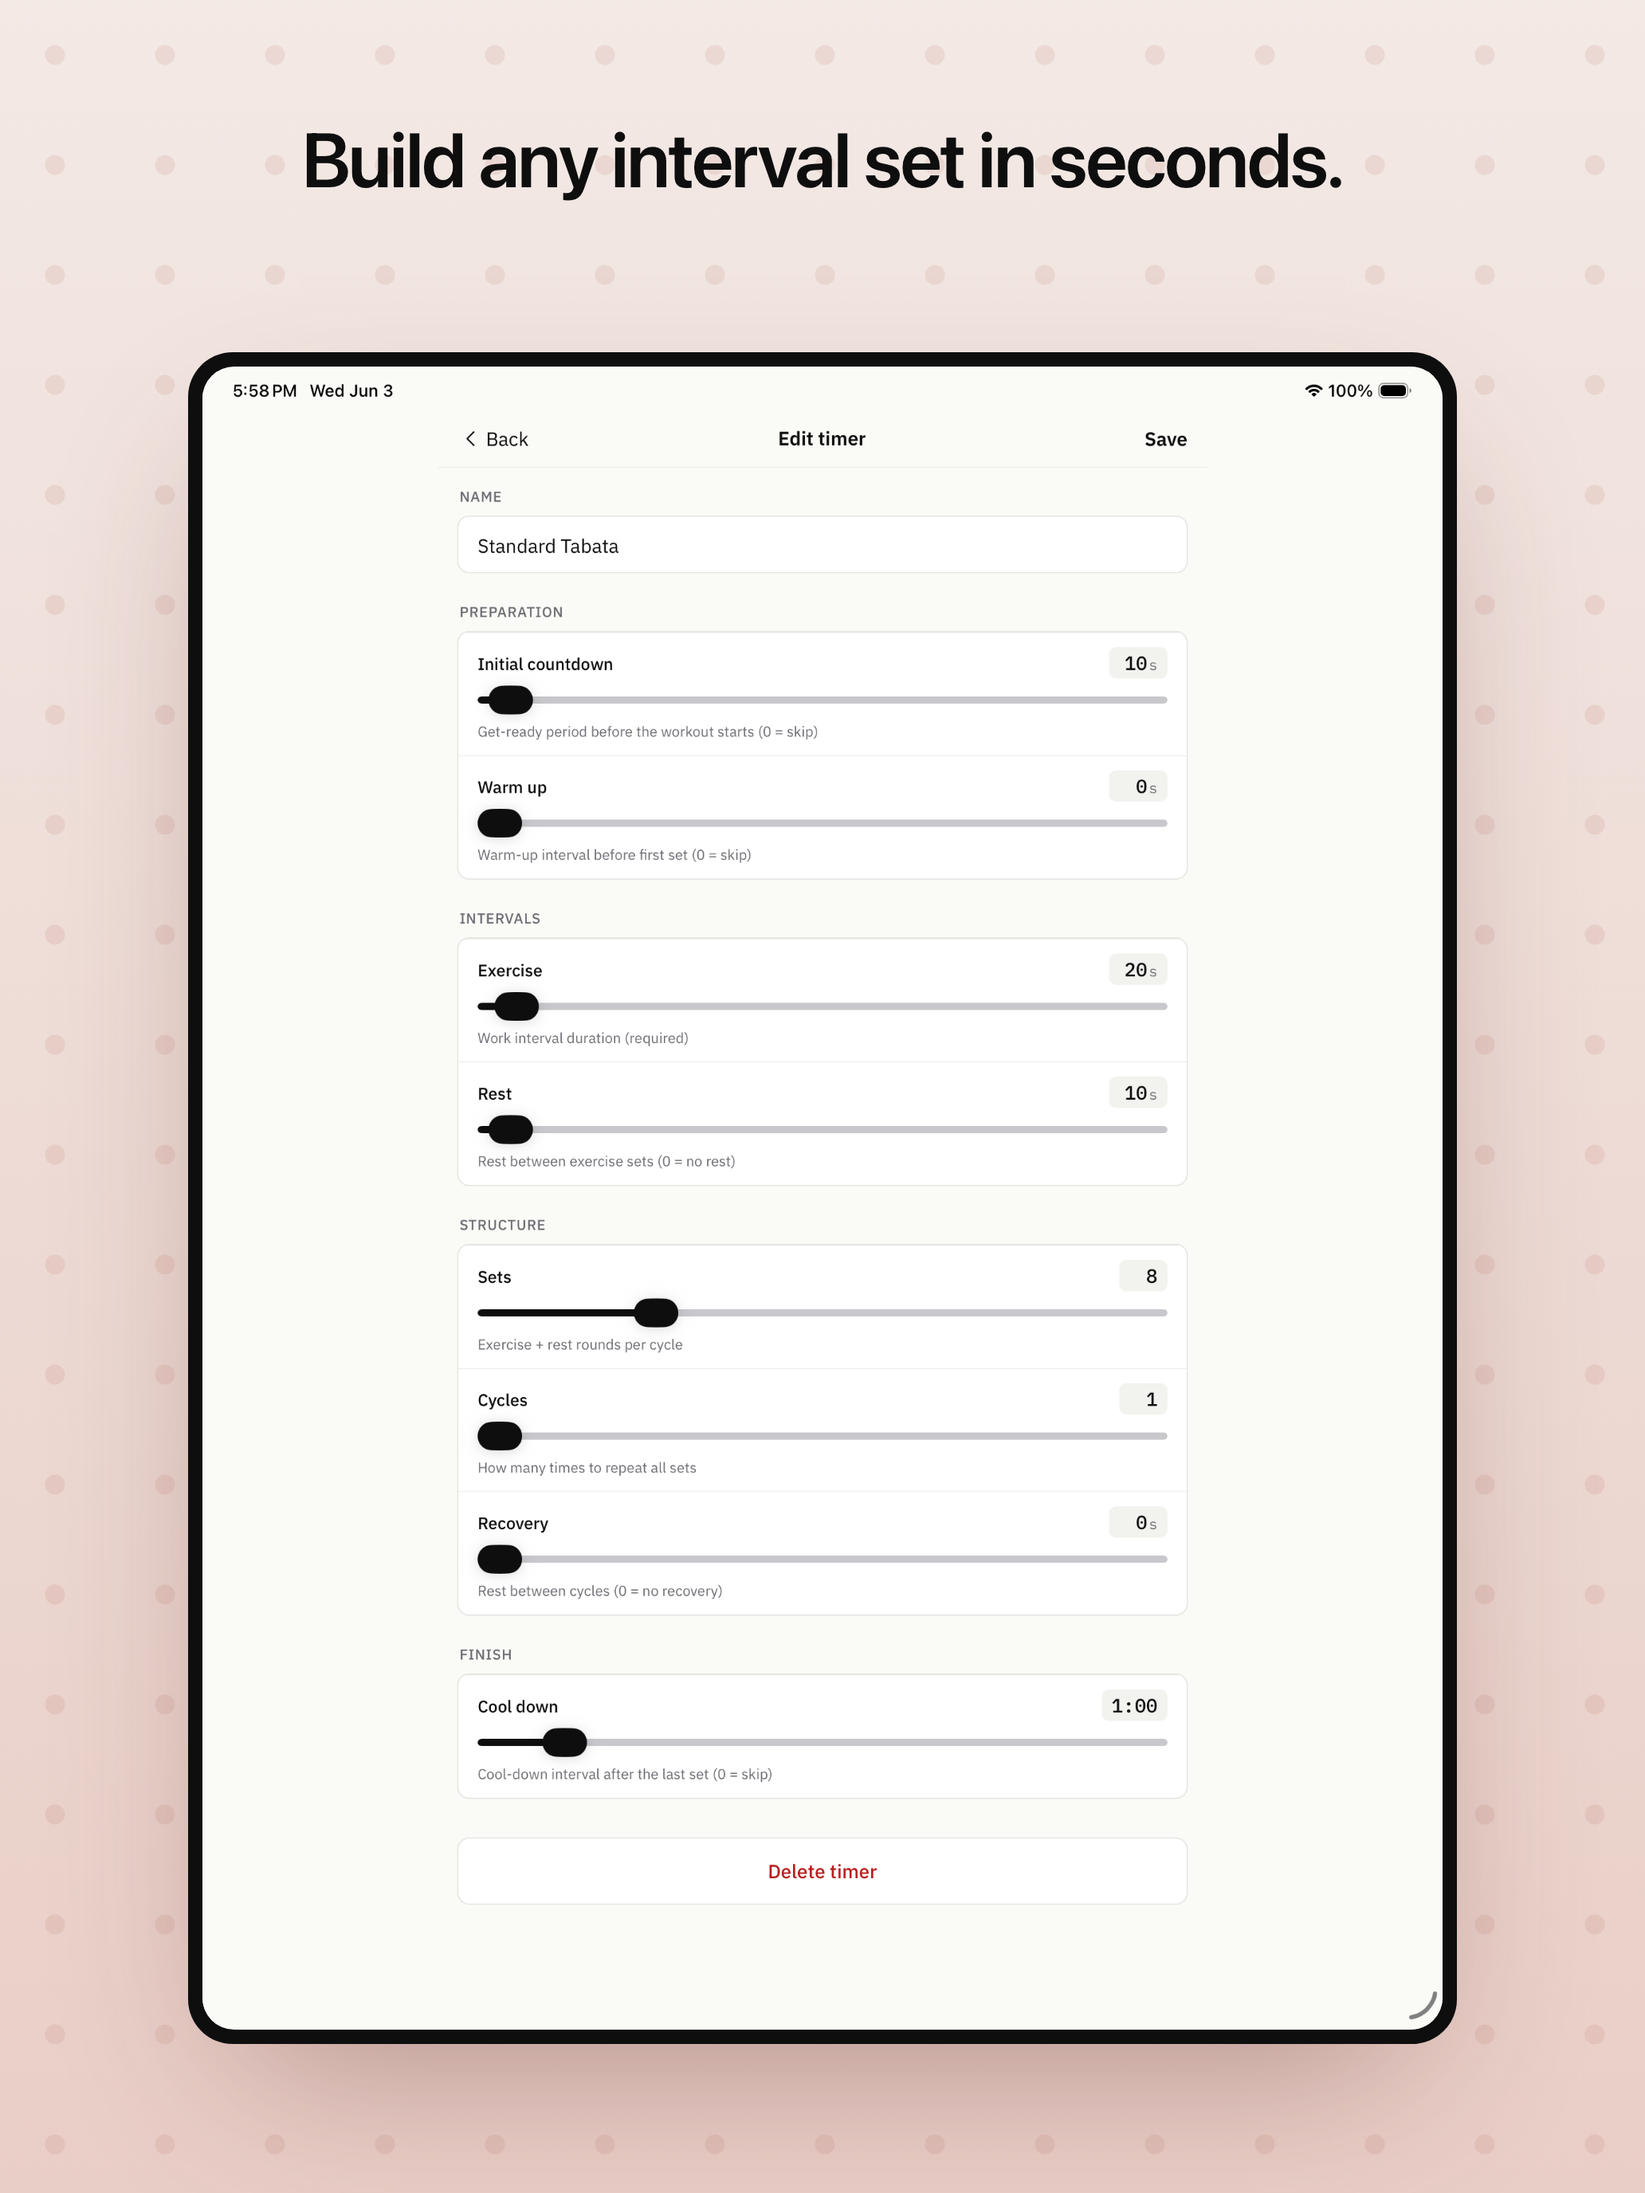
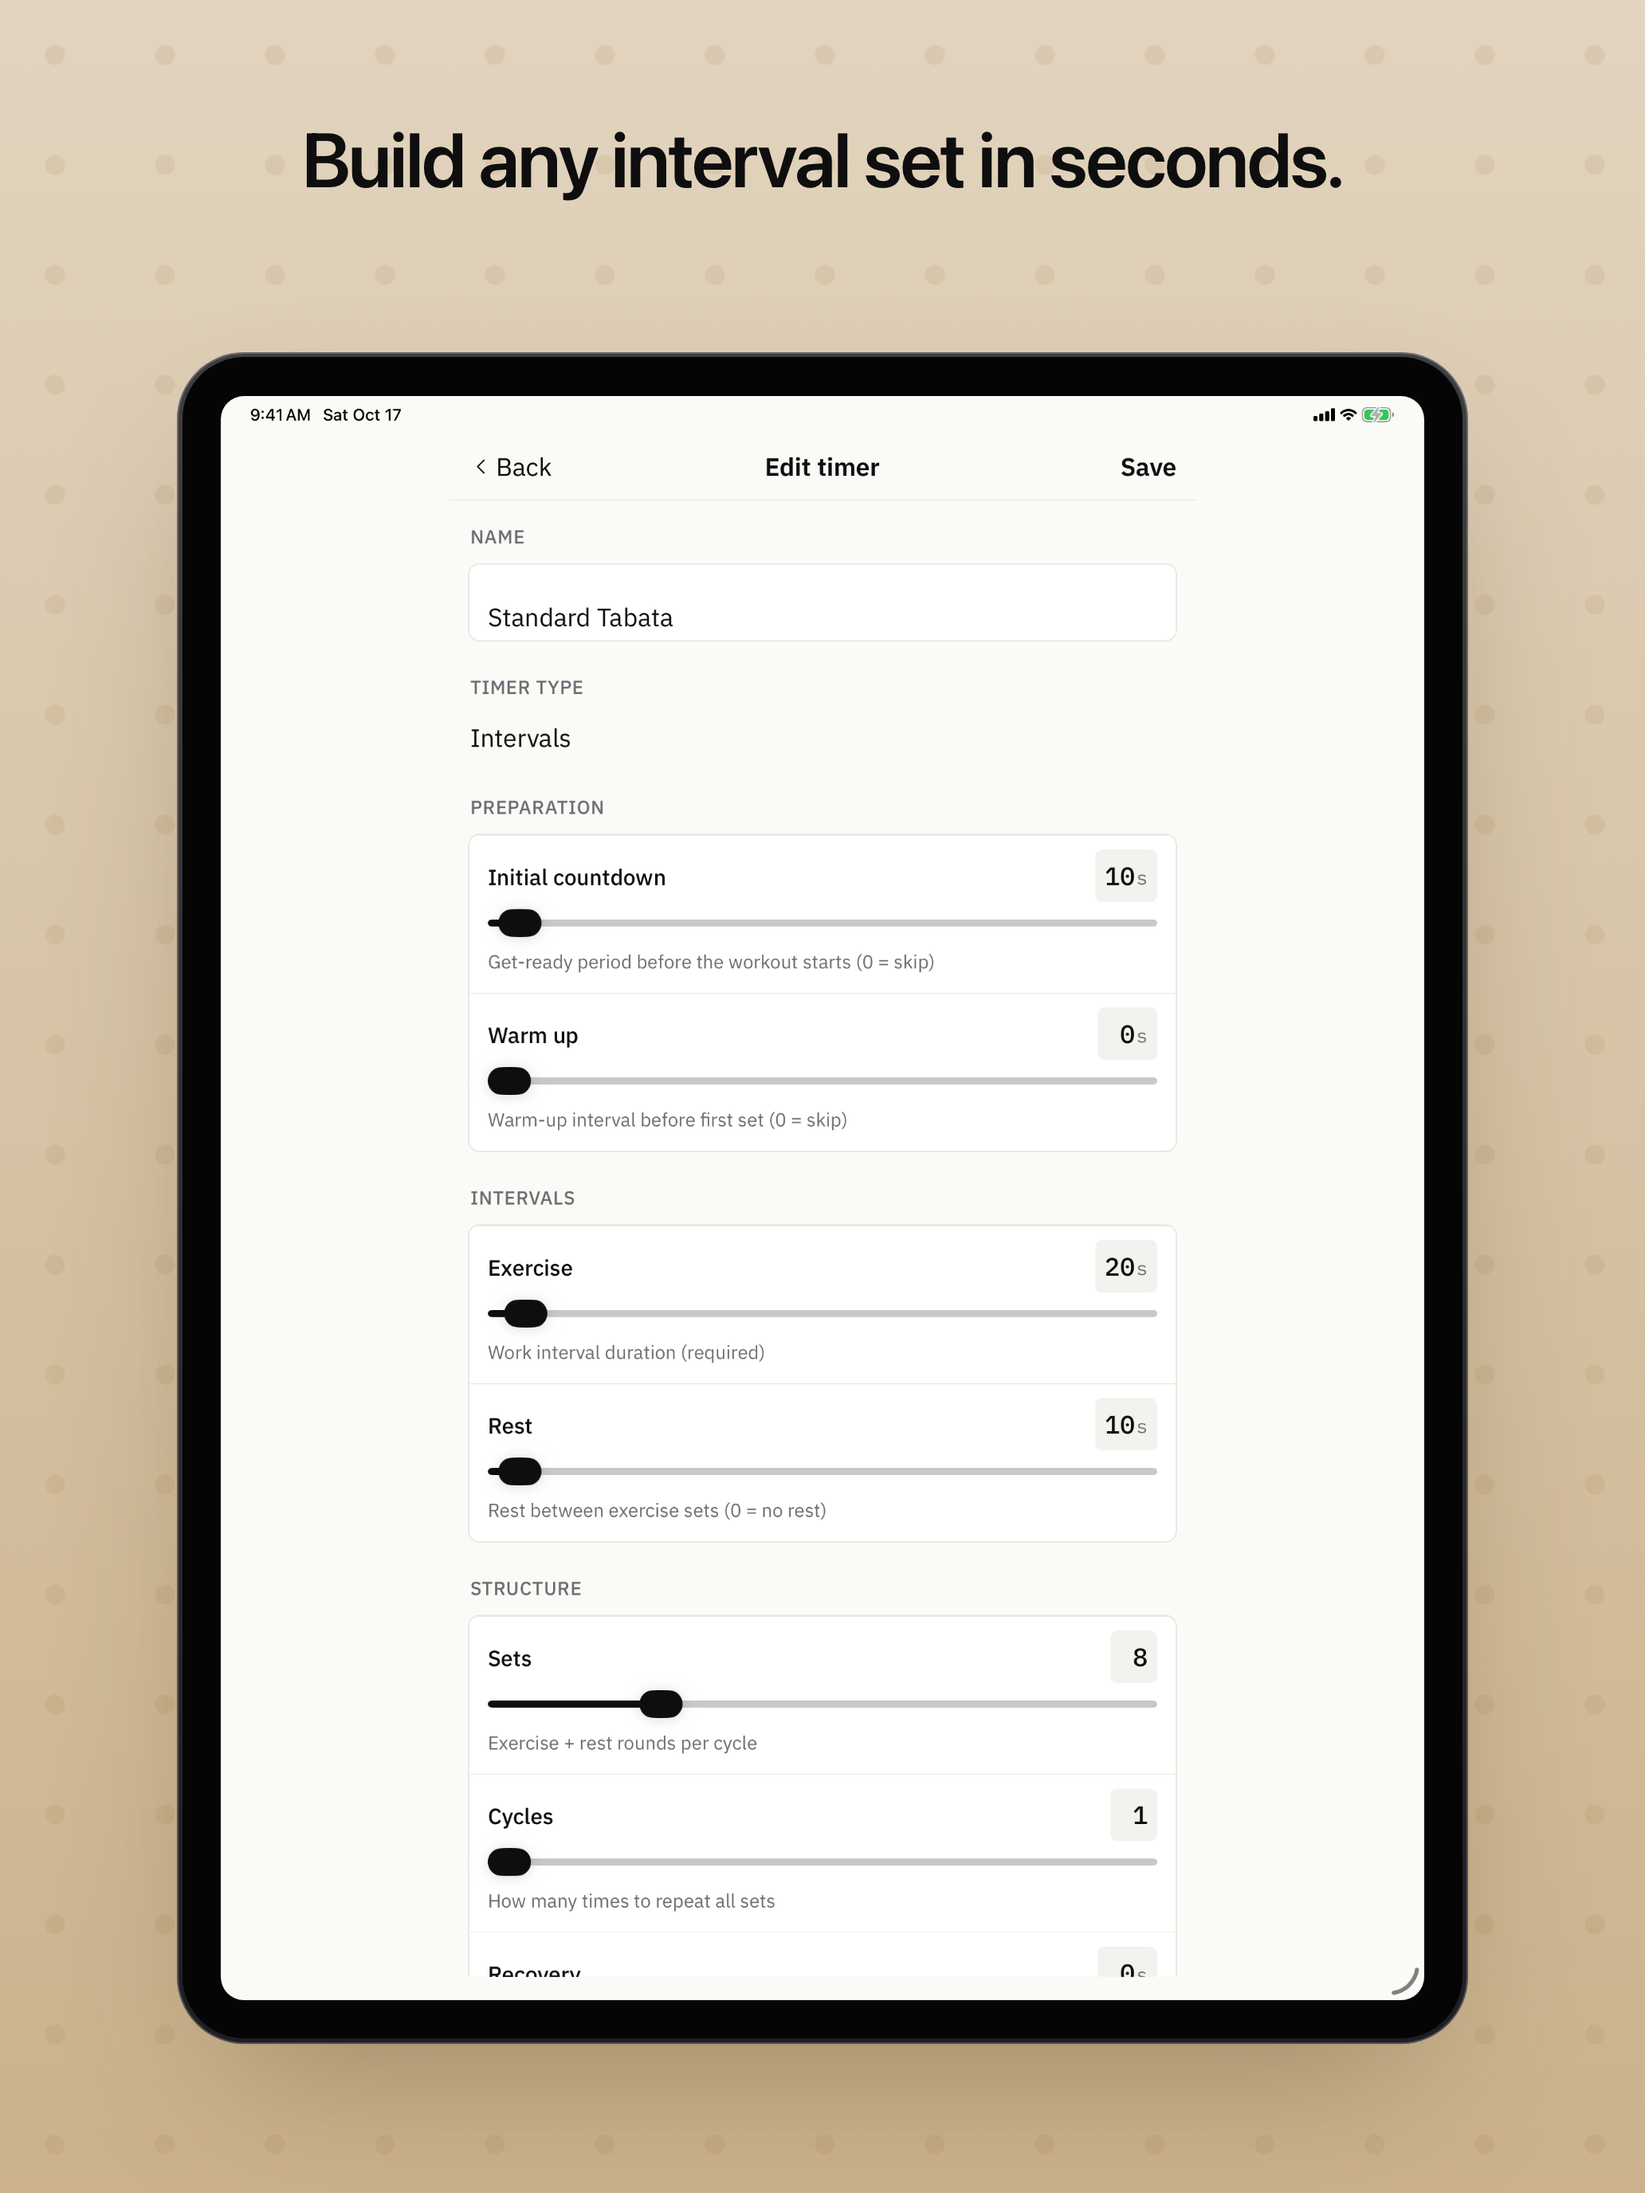
Store screenshots: light-mode hero, real device chrome, eight-slot set
Re-captured every set in light mode from the QA fixtures on the iPhone 17 Pro Max,
13-inch iPad and Pixel-class Android emulator, and re-framed with the factory's new
device chrome (Dynamic Island, true corner radii, metal band, side buttons).

Slot spine v2: hero, custom sequences, editor, Josh Approved card at slot 4, saved
timers, climbing hangboard, a large-text accessibility shot, and the dark-mode shot
last. Captions are benefits, under eight words, no price words. The sequence-editor
flow anchor moved from the third interval to the first so it is on screen on a
16:9 phone.

diff --git a/qa/frame.html b/qa/frame.html
@@ -16,7 +16,14 @@
     --green-600: #1F8A4C;
     /* Defaults overridden by the script from query params (accent/style/theme). */
     --ac: #6E4A63;
-    --device-shadow: none;
+    --device-shadow: 0 0 0 0 transparent;
+    /* Device chrome geometry — set in px by fitDevice() from the rendered device
+       width (see GEOM in the script). These are only pre-load fallbacks. */
+    --band-w: 6px; --bezel-w: 16px; --band-edge-w: 2px;
+    --r-outer: 120px; --r-bezel: 114px; --r-screen: 98px;
+    --island-w: 0; --island-h: 0; --island-top: 0;
+    --punch-d: 0; --punch-top: 0;
+    --btn-w: 0; --btn-r: 0;
     --motif: none;
     --kl-w: 0; --kl-h: 0; --kl-mt: 0;
   }
@@ -35,8 +42,20 @@
   /* Theme = light|dark. In `flat` style --bg is a solid; richer styles overwrite
      --bg with a gradient (+ motif) from the script. --fg/--bezel always follow
      the theme so captions + device chrome stay legible on whatever ground. */
-  body[data-theme="light"] { --bg: var(--paper);    --fg: var(--ink-1000); --bezel: var(--ink-1000); }
-  body[data-theme="dark"]  { --bg: var(--ink-1000); --fg: var(--paper);    --bezel: var(--paper);    }
+  body[data-theme="light"] {
+    --bg: var(--paper); --fg: var(--ink-1000);
+    --bezel: #050506;
+    --band: linear-gradient(180deg, #3d3d42, #1f1f23);
+    --band-solid: #2c2c30;
+    --band-edge: rgba(255, 255, 255, 0.22);
+  }
+  body[data-theme="dark"] {
+    --bg: var(--ink-1000); --fg: var(--paper);
+    --bezel: #050506;
+    --band: linear-gradient(180deg, #edece7, #cdccc6);
+    --band-solid: #dad9d3;
+    --band-edge: rgba(255, 255, 255, 0.78);
+  }
 
   .stage {
     width: 100vw;
@@ -76,33 +95,73 @@
     place-items: center;
   }
 
+  /* The device reads as a REAL current phone/tablet at thumbnail size (Josh,
+     2026-10-17: the old uniform ink slab "did not look like an iPhone"). Three
+     concentric layers, all radii concentric and scaled from the rendered width:
+       .device  the metal band (theme-tinted: dark titanium on a light ground,
+                white titanium on a dark ground) with a hairline edge highlight
+       .bezel   the display bezel — always near-black, like the real thing
+       .screen  the capture, with the Dynamic Island (iPhone) or punch-hole
+                camera (Android) drawn over the status-bar gap the OS already
+                leaves for it, so the capture's own status bar sits correctly
+     Side buttons hang off the band (iPhone: action, volume up/down on the left,
+     side button + camera control on the right; Android: power + volume on the
+     right). Flat, front-on, no 3D — canon § Screenshot principles. */
   .device {
-    background: var(--bezel);
-    border-radius: var(--bezel-radius);
-    padding: var(--bezel-thickness);
-    display: grid;
-    place-items: center;
+    position: relative;
+    background: var(--band);
+    border-radius: var(--r-outer);
+    padding: var(--band-w);
     /* Shrink-to-fit BOTH axes (mirrors .window): width:100% + height:auto sizes
        height from the aspect ratio; when that would exceed the cell, max-height
-       clamps and aspect-ratio pulls width back in. */
+       clamps and aspect-ratio pulls width back in. fitDevice() then replaces
+       this with exact px so the screen aperture matches the capture's pixels. */
     width: 100%;
     height: auto;
     aspect-ratio: var(--device-aspect);
     max-height: 100%;
     max-width: 100%;
+    /* Band edge highlight + the floating drop shadow (transparent in flat). */
+    box-shadow: inset 0 0 0 var(--band-edge-w) var(--band-edge), var(--device-shadow);
   }
-  /* Float the device on every style except flat (flat = the original look). */
-  body:not([data-style="flat"]) .device { box-shadow: var(--device-shadow); }
-
-  .screen {
+  .bezel {
     width: 100%;
     height: 100%;
-    border-radius: var(--screen-radius);
+    background: var(--bezel);
+    border-radius: var(--r-bezel);
+    padding: var(--bezel-w);
+  }
+  .screen {
+    position: relative;
+    width: 100%;
+    height: 100%;
+    border-radius: var(--r-screen);
     overflow: hidden;
-    background: var(--paper);
+    background-color: var(--bezel);
     display: block;
     background-repeat: no-repeat;
   }
+  .island {
+    position: absolute; left: 50%; top: var(--island-top);
+    width: var(--island-w); height: var(--island-h);
+    transform: translateX(-50%);
+    border-radius: 999px; background: #000;
+  }
+  .punch {
+    position: absolute; left: 50%; top: var(--punch-top);
+    width: var(--punch-d); height: var(--punch-d);
+    transform: translateX(-50%);
+    border-radius: 50%; background: #000;
+    box-shadow: inset 0 0 0 calc(var(--punch-d) * 0.16) #17171a;
+  }
+  .btn {
+    position: absolute;
+    width: var(--btn-w);
+    background: var(--band-solid);
+    box-shadow: inset 0 0 0 var(--band-edge-w) var(--band-edge);
+  }
+  .btn.l { right: 100%; border-radius: var(--btn-r) 0 0 var(--btn-r); }
+  .btn.r { left: 100%;  border-radius: 0 var(--btn-r) var(--btn-r) 0; }
   .screen img {
     width: 100%;
     height: 100%;
@@ -135,9 +194,6 @@
 
   body[data-surface="iphone"] {
     --pad-x: 96px; --pad-y: 96px; --gap: 56px;
-    --bezel-thickness: 14px;
-    --bezel-radius: 96px;
-    --screen-radius: 84px;
     --device-aspect: 1320 / 2868;
   }
   body[data-surface="iphone"] .caption { font-size: 88px; }
@@ -145,9 +201,6 @@
 
   body[data-surface="ipad"] {
     --pad-x: 144px; --pad-y: 144px; --gap: 72px;
-    --bezel-thickness: 18px;
-    --bezel-radius: 56px;
-    --screen-radius: 40px;
     --device-aspect: 2064 / 2752;
   }
   body[data-surface="ipad"] .caption { font-size: 96px; }
@@ -155,9 +208,6 @@
 
   body[data-surface="android"] {
     --pad-x: 72px; --pad-y: 72px; --gap: 44px;
-    --bezel-thickness: 12px;
-    --bezel-radius: 64px;
-    --screen-radius: 52px;
     --device-aspect: 1080 / 2400;
   }
   body[data-surface="android"] .caption { font-size: 72px; }
@@ -165,9 +215,6 @@
 
   body[data-surface="android-tablet"] {
     --pad-x: 120px; --pad-y: 120px; --gap: 56px;
-    --bezel-thickness: 16px;
-    --bezel-radius: 48px;
-    --screen-radius: 32px;
     --device-aspect: 1600 / 2560;
   }
   body[data-surface="android-tablet"] .caption { font-size: 84px; }
@@ -246,6 +293,34 @@
   const accent  = params.get('accent') || '';
   const crop    = (params.get('crop') || '').split(',').map(Number).filter((n) => !Number.isNaN(n));
   const vmode   = params.get('vmode') || '';   // '' | 'back' | 'front' — video-frame plates
+
+  // Device chrome proportions, as fractions of the rendered OUTER device width
+  // (band/bezel/rOuter/edge/btn) or of the screen width (island/punch), or of
+  // the device height (button top/height). Measured off current hardware:
+  //   iPhone 17 Pro Max — display corner radius ≈ 62pt of a 440pt-wide screen,
+  //     Dynamic Island ≈ 125×37pt sitting 11pt below the top edge, bezel ≈ 1.2mm
+  //     of a 78mm body, titanium band ≈ 0.5mm; action + volume left, side button
+  //     + camera control right.
+  //   Pixel-class Android — corner radius ≈ 11% of width, centred punch-hole
+  //     camera, power above the volume rocker on the right.
+  //   iPad Pro 13" / Android tablet — slim uniform bezel, small corner radius.
+  // Everything is a ratio, so the same table renders a 1080-wide Play phone and
+  // a 1320-wide App Store phone identically at their own scale.
+  const GEOM = {
+    iphone: {
+      band: 0.0055, bezel: 0.0165, rOuter: 0.157, edge: 0.0018,
+      island: { w: 0.283, h: 0.084, top: 0.0245 },
+      buttons: [['l', 0.168, 0.028], ['l', 0.226, 0.064], ['l', 0.305, 0.064], ['r', 0.247, 0.102], ['r', 0.560, 0.048]],
+    },
+    android: {
+      band: 0.0055, bezel: 0.016, rOuter: 0.118, edge: 0.0018,
+      punch: { d: 0.044, top: 0.021 },
+      buttons: [['r', 0.175, 0.052], ['r', 0.248, 0.098]],
+    },
+    ipad: { band: 0.004, bezel: 0.030, rOuter: 0.052, edge: 0.0012 },
+    'android-tablet': { band: 0.004, bezel: 0.030, rOuter: 0.048, edge: 0.0012 },
+  };
+
 
   if (vmode) document.body.dataset.vmode = vmode;
   document.body.dataset.surface = surface;
@@ -487,9 +562,15 @@
         </div>
       </div>`;
   } else {
+    const g = GEOM[surface] || GEOM.iphone;
+    const btns = (g.buttons || [])
+      .map(([side, top, h]) => `<span class="btn ${side}" style="top:${(top * 100).toFixed(2)}%;height:${(h * 100).toFixed(2)}%"></span>`)
+      .join('');
+    // A detail crop isn't the top of the screen, so no island/punch over it.
+    const sensor = layout === 'detail' ? '' : g.island ? '<span class="island"></span>' : g.punch ? '<span class="punch"></span>' : '';
     frame.innerHTML = `
-      <div class="device">
-        <div class="screen"><img src="${screen}" alt=""></div>
+      <div class="device">${btns}
+        <div class="bezel"><div class="screen"><img src="${screen}" alt="">${sensor}</div></div>
       </div>`;
   }
 
@@ -502,6 +583,7 @@
     const frameEl = document.getElementById('frame');
     if (!device || !frameEl) return;
     const r = aspectRatioPx;
+    const g = GEOM[surface] || GEOM.iphone;
     let availW = frameEl.clientWidth;
     let availH = frameEl.clientHeight;
     // layout=bleed: let the device run to the bottom edge (implied "there's more").
@@ -510,14 +592,40 @@
     if (layout === 'bleed') {
       availH = availH * 1.16;
     }
-    let w, h;
-    if (availW / availH > r) { h = availH; w = h * r; }
-    else { w = availW; h = w / r; }
-    device.style.aspectRatio = `${r}`;
-    device.style.width = `${w}px`;
-    device.style.height = `${h}px`;
-    device.style.maxWidth = 'none';
-    device.style.maxHeight = 'none';
+    // Size the OUTER box so the screen aperture (outer minus band minus bezel on
+    // each side) has exactly the capture's aspect — no letterbox sliver of bezel
+    // colour above/below a dark screen. pf = one side's chrome as a fraction of
+    // the outer width; k = outer height per unit of outer width.
+    const pf = g.band + g.bezel;
+    const k = (1 - 2 * pf) / r + 2 * pf;
+    let w = availW;
+    let h = w * k;
+    if (h > availH) { h = availH; w = h / k; }
+    const px = (f) => `${(f * w).toFixed(2)}px`;
+    const s = device.style;
+    s.aspectRatio = 'auto';
+    s.width = `${w.toFixed(2)}px`;
+    s.height = `${h.toFixed(2)}px`;
+    s.maxWidth = 'none';
+    s.maxHeight = 'none';
+    s.setProperty('--band-w', px(g.band));
+    s.setProperty('--bezel-w', px(g.bezel));
+    s.setProperty('--r-outer', px(g.rOuter));
+    s.setProperty('--r-bezel', px(g.rOuter - g.band));
+    s.setProperty('--r-screen', px(g.rOuter - g.band - g.bezel));
+    s.setProperty('--band-edge-w', `${Math.max(1, Math.round(g.edge * w))}px`);
+    const sw = w * (1 - 2 * pf);   // screen width
+    if (g.island) {
+      s.setProperty('--island-w', `${(g.island.w * sw).toFixed(2)}px`);
+      s.setProperty('--island-h', `${(g.island.h * sw).toFixed(2)}px`);
+      s.setProperty('--island-top', `${(g.island.top * sw).toFixed(2)}px`);
+    }
+    if (g.punch) {
+      s.setProperty('--punch-d', `${(g.punch.d * sw).toFixed(2)}px`);
+      s.setProperty('--punch-top', `${(g.punch.top * sw).toFixed(2)}px`);
+    }
+    s.setProperty('--btn-w', px(0.009));
+    s.setProperty('--btn-r', px(0.004));
     if (layout === 'bleed') { document.querySelector('.stage').style.overflow = 'hidden'; device.style.alignSelf = 'end'; }
   }
 
